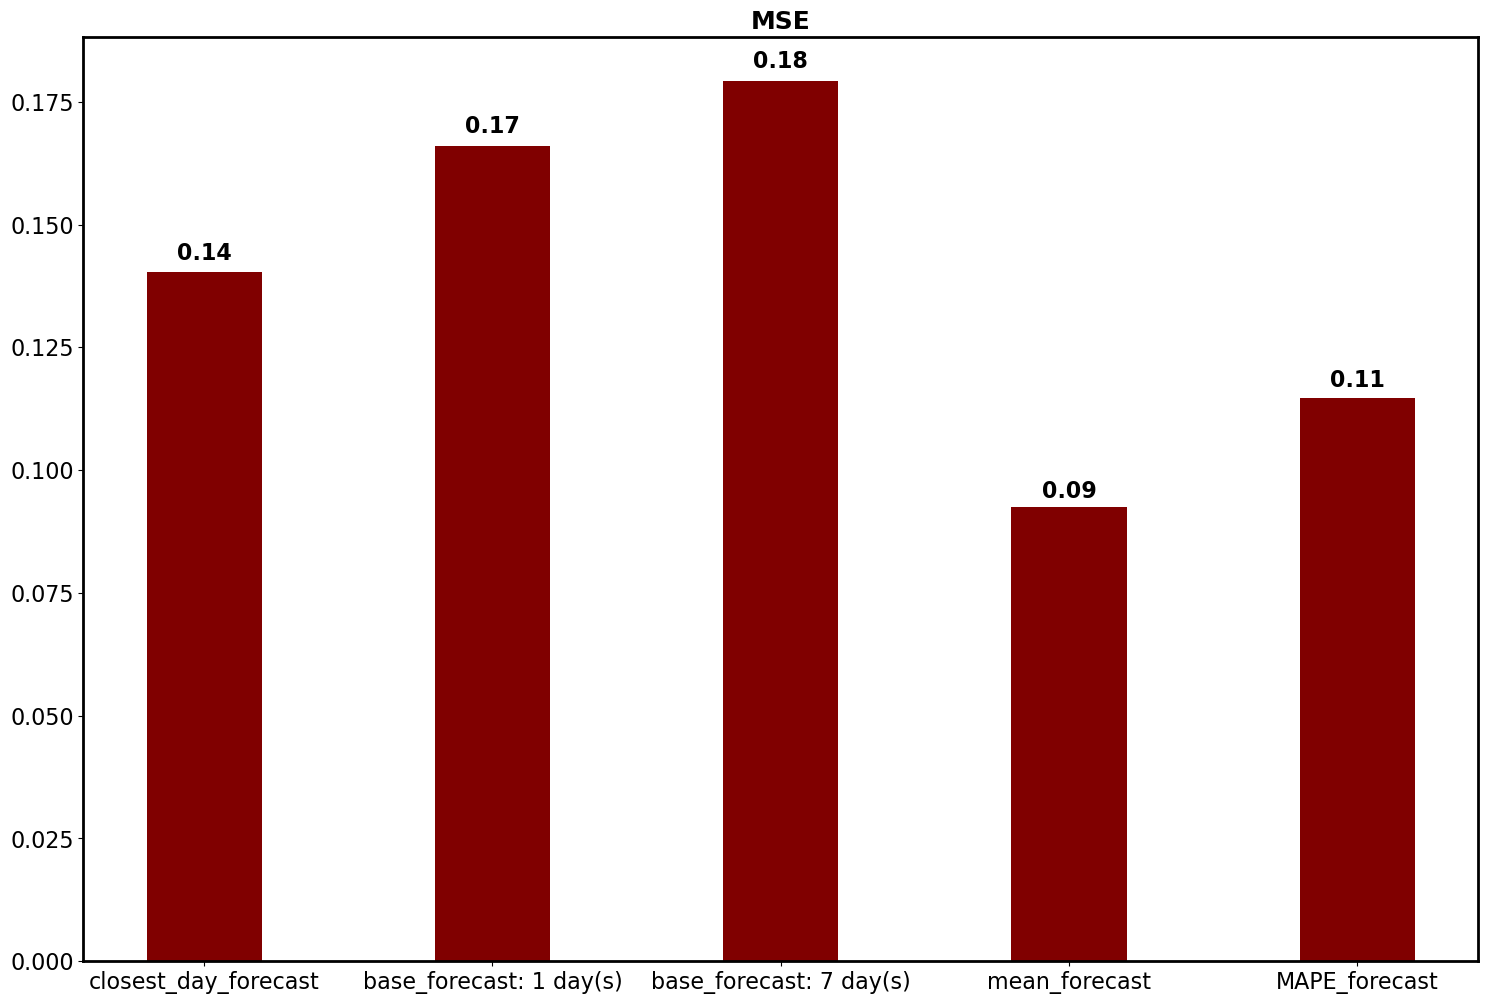
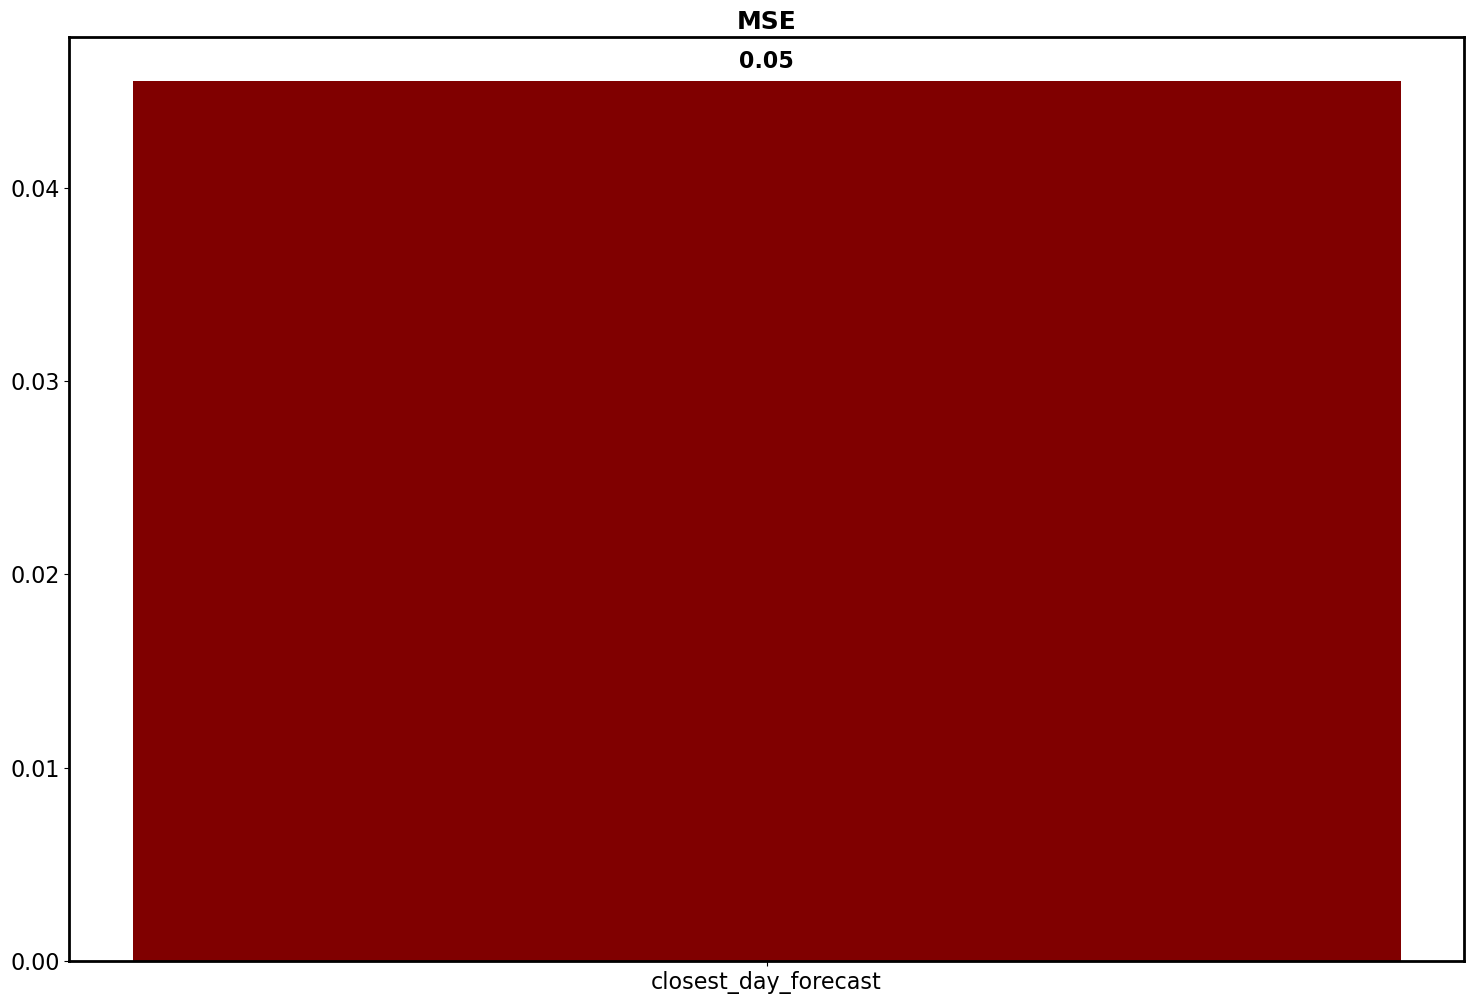
nan temp fixed

diff --git a/Forecasting/Test_basemodel.py b/Forecasting/Test_basemodel.py
@@ -34,35 +34,38 @@ av_temperature = av_temperature.transpose()
 av_temperature.index = pd.to_datetime(av_temperature.index)
 
 vertical_stack = pd.DataFrame()
-
-for col_name in fullYeardata.columns:
+counter = 0
+total_count = len(fullYeardata.columns)
+for col_name in fullYeardata.columns[15:16]:
     TS = fullYeardata[col_name]
     TS_temperature = av_temperature[col_name]
     TS_december = TS[TS.index.month == 12]
 
-    forecast1 = find_most_similar_day(TS_december.index,TS,TS_temperature)
-    forecast2 = base_model_week_before(TS_december.index,TS,amount_days=1)
-    forecast3 = base_model_week_before(TS_december.index, TS, amount_days=7)
-    forecast4 = mean_forecast(TS_december.index,TS)
-    forecast5 = MAPE_estimator(TS_december.index,TS)
+    forecast1 = find_most_similar_day(TS_december.index,TS,TS_temperature,time_steps =48)
+    # forecast2 = base_model_week_before(TS_december.index,TS,amount_days=1)
+    # forecast3 = base_model_week_before(TS_december.index, TS, amount_days=7)
+    # forecast4 = mean_forecast(TS_december.index,TS)
+    # forecast5 = MAPE_estimator(TS_december.index,TS)
 
     forecast1 = forecast1.reset_index(drop=True)
-    forecast2 = forecast2.reset_index(drop=True)
-    forecast3 = forecast3.reset_index(drop=True)
-    forecast4 = forecast4.reset_index(drop=True)
-    forecast5 = forecast5.reset_index(drop=True)
+    # forecast2 = forecast2.reset_index(drop=True)
+    # forecast3 = forecast3.reset_index(drop=True)
+    # forecast4 = forecast4.reset_index(drop=True)
+    # forecast5 = forecast5.reset_index(drop=True)
     real_values = TS_december.reset_index(drop=True)
 
     df = pd.DataFrame()
     df[forecast1.name] = forecast1
-    df[forecast2.name] = forecast2
-    df[forecast3.name] = forecast3
-    df[forecast4.name] = forecast4
-    df[forecast5.name] = forecast5
+    # df[forecast2.name] = forecast2
+    # df[forecast3.name] = forecast3
+    # df[forecast4.name] = forecast4
+    # df[forecast5.name] = forecast5
     df['real_values'] = real_values
 
 
     vertical_stack = pd.concat([vertical_stack,df], axis=0, ignore_index=True)
+    counter += 1
+    print("%s of %s time-series are trained.\n"%(counter,total_count))
 
 
 # Evaluate the different methods:

diff --git a/Forecasting/Test_basemodel_functions.py b/Forecasting/Test_basemodel_functions.py
@@ -68,11 +68,11 @@ def norm(serie: pd.Series):
     norm_serie = pd.Series(data=norm_serie,index=serie.index)
     return norm_serie
 
-def get_closest_day(training_days: pd.DatetimeIndex,temperature: pd.Series,daily_temp:float):
+def get_closest_day(training_days: pd.DatetimeIndex,temperature: pd.Series,daily_temp:float)-> pd.Timestamp:
     day = abs(temperature[training_days] - daily_temp).idxmin()
     return day
 
-def find_most_similar_day(test_dates: pd.DatetimeIndex,serie: pd.Series,temperature: pd.Series):
+def find_most_similar_day(test_dates: pd.DatetimeIndex,serie: pd.Series,temperature: pd.Series,time_steps:int):
     # The assumption is made that the test_dates are one continuous sequence of days
     daily_test_dates = pd.date_range(start=test_dates[0],end=test_dates[-1],freq='D')
     base_forecast = pd.Series(index= test_dates,name= 'closest_day_forecast')
@@ -83,6 +83,13 @@ def find_most_similar_day(test_dates: pd.DatetimeIndex,serie: pd.Series,temperat
         holidays = EnglandAndWalesHolidayCalendar().holidays(start=pd.Timestamp('2017-01-01'),end=day + dt.timedelta(-1))
         training_days = training_days.symmetric_difference(holidays)
         day_temp = temperature[temperature.index.dayofyear == day.dayofyear][0]
+
+        # if have no information about the temperature of the day --> can't forecast the day
+        if np.isnan(day_temp) :
+            forecast = np.ones(time_steps)
+            forecast[:] = np.nan
+            base_forecast[base_forecast.index.dayofyear == day.dayofyear] = forecast
+            continue
 
         if day in holidays:
             # look for holiday and Sunday (to get more days) --> we know that similarity is highest with Sunday
